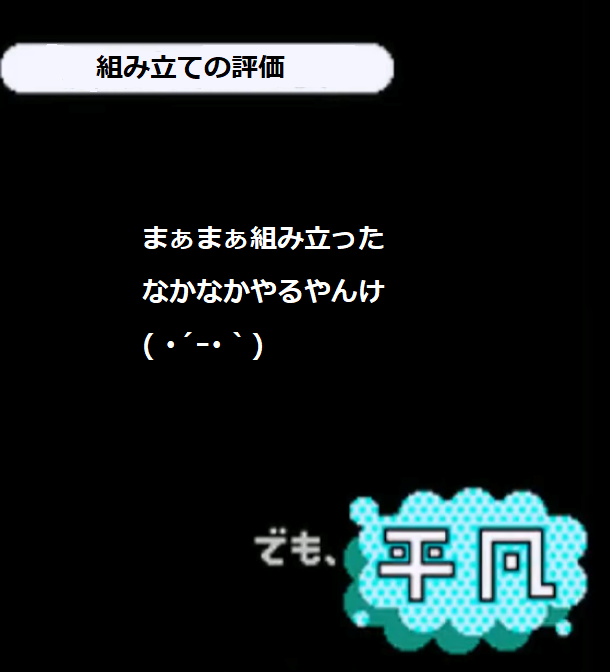
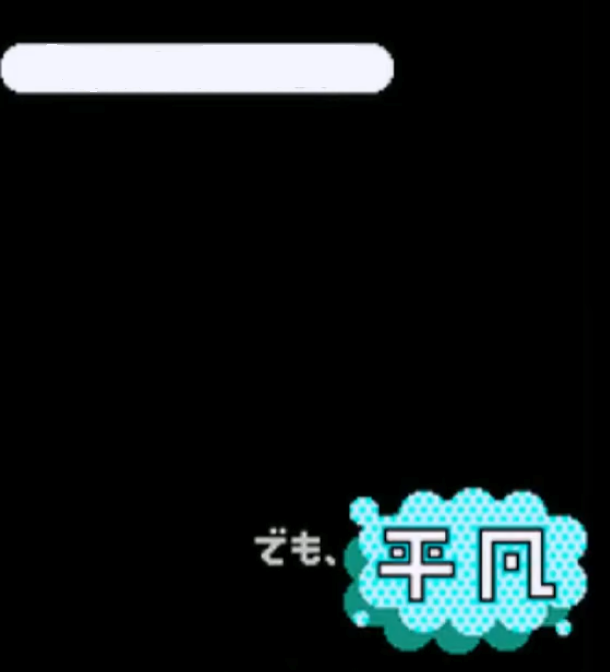
Add result messages to web games

diff --git a/static/js/terrible_ninja.js b/static/js/terrible_ninja.js
@@ -20,15 +20,18 @@ const ASSETS = {
     results: {
         high: {
             image: "/static/images/high_level.png",
-            audio: "/static/audio/high_level.mp3"
+            audio: "/static/audio/high_level.mp3",
+            message: "え！？ めちゃめちゃすごい！？\nめちゃくちゃ尊敬します。\n((*´▽｀*)"
         },
         good: {
             image: "/static/images/good.png",
-            audio: "/static/audio/good.mp3"
+            audio: "/static/audio/good.mp3",
+            message: "ちょっと飛んできたけど\n基本的にふせげてた！ ！\n(*'ω'*)"
         },
         redo: {
-            image: "/static/images/background.png",
-            audio: "/static/audio/redo.mp3"
+            image: "/static/images/redo.png",
+            audio: "/static/audio/redo.mp3",
+            message: "こっちにめっちゃ矢\n飛んできてるんですけど！？\n( ˘•ω•˘ )"
         }
     }
 };
@@ -414,17 +417,25 @@ async function showResult() {
     await saveRecord();
 
     let result;
+    let resultRank;
     if (state.missCount <= 10) {
         result = ASSETS.results.high;
+        resultRank = "high-level";
     } else if (state.missCount <= 20) {
         result = ASSETS.results.good;
+        resultRank = "good";
     } else {
         result = ASSETS.results.redo;
+        resultRank = "redo";
     }
 
     document.getElementById("finalMissCount").textContent = state.missCount;
     document.getElementById("resultImage").src = result.image;
-    document.getElementById("resultScreen").hidden = false;
+    document.getElementById("resultName").textContent = "トノからのひとこと";
+    document.getElementById("resultMessage").textContent = result.message;
+    const resultScreen = document.getElementById("resultScreen");
+    resultScreen.dataset.rank = resultRank;
+    resultScreen.hidden = false;
 
     resultAudio = new Audio(result.audio);
     resultAudio.preload = "auto";

diff --git a/static/js/built_to_scale2.js b/static/js/built_to_scale2.js
@@ -8,6 +8,12 @@ const ctx = canvas.getContext("2d");
 const background = new Image();
 background.src = "/static/images/background.png";
 
+const RESULT_MESSAGES = Object.freeze({
+    redo: "全然組み立って\nないですよ～\n(⌒∇⌒)",
+    good: "まぁまぁ組み立った\nなかなかやるやんけ\n( ･´ｰ･｀)",
+    highLevel: "すごすぎる！？\n普通に尊敬します。\n(ﾟдﾟ)！"
+});
+
 
 /* =========================================
    ゲーム設定
@@ -787,6 +793,8 @@ async function showResult() {
     // 結果画像・結果音声
     let resultImagePath;
     let resultAudioPath;
+    let resultMessage;
+    let resultRank;
 
 
     if (gameState.missCount >= 16) {
@@ -797,6 +805,11 @@ async function showResult() {
 
         resultAudioPath =
             "/static/audio/redo.mp3";
+
+        resultMessage =
+            RESULT_MESSAGES.redo;
+
+        resultRank = "redo";
 
     }
 
@@ -809,6 +822,11 @@ async function showResult() {
         resultAudioPath =
             "/static/audio/good.mp3";
 
+        resultMessage =
+            RESULT_MESSAGES.good;
+
+        resultRank = "good";
+
     }
 
     else {
@@ -819,6 +837,11 @@ async function showResult() {
 
         resultAudioPath =
             "/static/audio/high_level.mp3";
+
+        resultMessage =
+            RESULT_MESSAGES.highLevel;
+
+        resultRank = "high-level";
     }
 
 
@@ -826,6 +849,12 @@ async function showResult() {
     if (resultImage) {
         resultImage.src = resultImagePath;
     }
+
+    document.getElementById("resultName").textContent =
+        "組み立ての評価";
+    document.getElementById("resultMessage").textContent =
+        resultMessage;
+    resultScreen.dataset.rank = resultRank;
 
 
     // 結果音声を再生

diff --git a/static/css/game.css b/static/css/game.css
@@ -344,3 +344,90 @@ body {
     height: auto;
     margin: 0 auto 20px auto;
 }
+
+/* =========================================
+   共通結果カード
+========================================= */
+
+.result-content.result-card {
+    position: relative;
+    width: 100%;
+    height: 100%;
+    overflow: hidden;
+}
+
+.result-card #resultImage {
+    position: absolute;
+    inset: 0;
+    width: 100%;
+    height: 100%;
+    max-width: none;
+    max-height: none;
+    margin: 0;
+    object-fit: fill;
+}
+
+.result-name {
+    position: absolute;
+    top: 0;
+    left: 1%;
+    width: 64%;
+    height: 8%;
+    display: flex;
+    align-items: center;
+    justify-content: center;
+    overflow: hidden;
+    color: #111;
+    font-size: clamp(17px, 3.4vw, 30px);
+    font-weight: 700;
+    line-height: 1;
+    white-space: nowrap;
+    z-index: 2;
+}
+
+.result-screen[data-rank="good"] .result-name {
+    top: 6%;
+}
+
+.result-screen[data-rank="high-level"] .result-name {
+    top: 7.5%;
+}
+
+.result-message {
+    position: absolute;
+    top: 50%;
+    left: 50%;
+    width: 90%;
+    transform: translate(-50%, -50%);
+    color: #fff;
+    font-size: clamp(21px, 4.2vw, 36px);
+    font-weight: 700;
+    line-height: 1.45;
+    white-space: pre-line;
+    text-align: center;
+    text-shadow:
+        -2px -2px 0 #000,
+        2px -2px 0 #000,
+        -2px 2px 0 #000,
+        2px 2px 0 #000;
+    z-index: 2;
+}
+
+.result-card .result-miss {
+    position: absolute;
+    left: 18px;
+    bottom: 16px;
+    margin: 0;
+    color: #fff;
+    font-size: 18px;
+    font-weight: 700;
+    text-shadow: 1px 1px 3px #000;
+    z-index: 3;
+}
+
+.result-card .result-actions {
+    position: absolute;
+    right: 16px;
+    bottom: 12px;
+    z-index: 3;
+}

diff --git a/templates/built_to_scale2.html b/templates/built_to_scale2.html
@@ -71,26 +71,17 @@
                 class="result-screen"
                 style="display: none;">
 
-                <div class="result-content">
-
-
-                    <!-- 結果タイトル -->
-
-                    <h2 id="resultTitle"></h2>
-
-
-                    <!-- 結果画像 -->
-
+                <div class="result-content result-card">
                     <img
                         id="resultImage"
                         src="/static/images/high_level.png"
                         alt="Result"
                     >
 
+                    <div id="resultName" class="result-name">組み立ての評価</div>
+                    <div id="resultMessage" class="result-message"></div>
 
-                    <!-- MISS数 -->
-
-                    <p>
+                    <p class="result-miss">
                         MISS COUNT:
                         <span id="finalMissCount">
                             0
@@ -98,9 +89,7 @@
                     </p>
 
 
-                    <!-- ボタン -->
-
-                    <div class="result-buttons">
+                    <div class="result-buttons result-actions">
 
                         <button
                             type="button"

diff --git a/templates/terrible_ninja.html b/templates/terrible_ninja.html
@@ -20,10 +20,12 @@
             <div id="evaluationText" class="evaluation-text"></div>
 
             <section id="resultScreen" class="result-screen" hidden>
-                <div class="result-content">
+                <div class="result-content result-card">
                     <img id="resultImage" src="" alt="ゲーム結果">
-                    <p>MISS: <span id="finalMissCount">0</span></p>
-                    <div class="result-buttons">
+                    <div id="resultName" class="result-name">トノからのひとこと</div>
+                    <div id="resultMessage" class="result-message"></div>
+                    <p class="result-miss">MISS: <span id="finalMissCount">0</span></p>
+                    <div class="result-buttons result-actions">
                         <button type="button" onclick="location.reload()">もう一度</button>
                         <button type="button" onclick="location.href='/launcher'">ランチャーへ</button>
                     </div>

diff --git a/Terrible_Ninja/main.py b/Terrible_Ninja/main.py
@@ -956,7 +956,7 @@ while running:
             result_image_name = "good.png"
             result_bgm_name = "good.mp3"
         else:
-            result_image_name = "background.png"
+            result_image_name = "redo.png"
             result_bgm_name = "redo.mp3"
 
         result_image = load_result_image(result_image_name)
